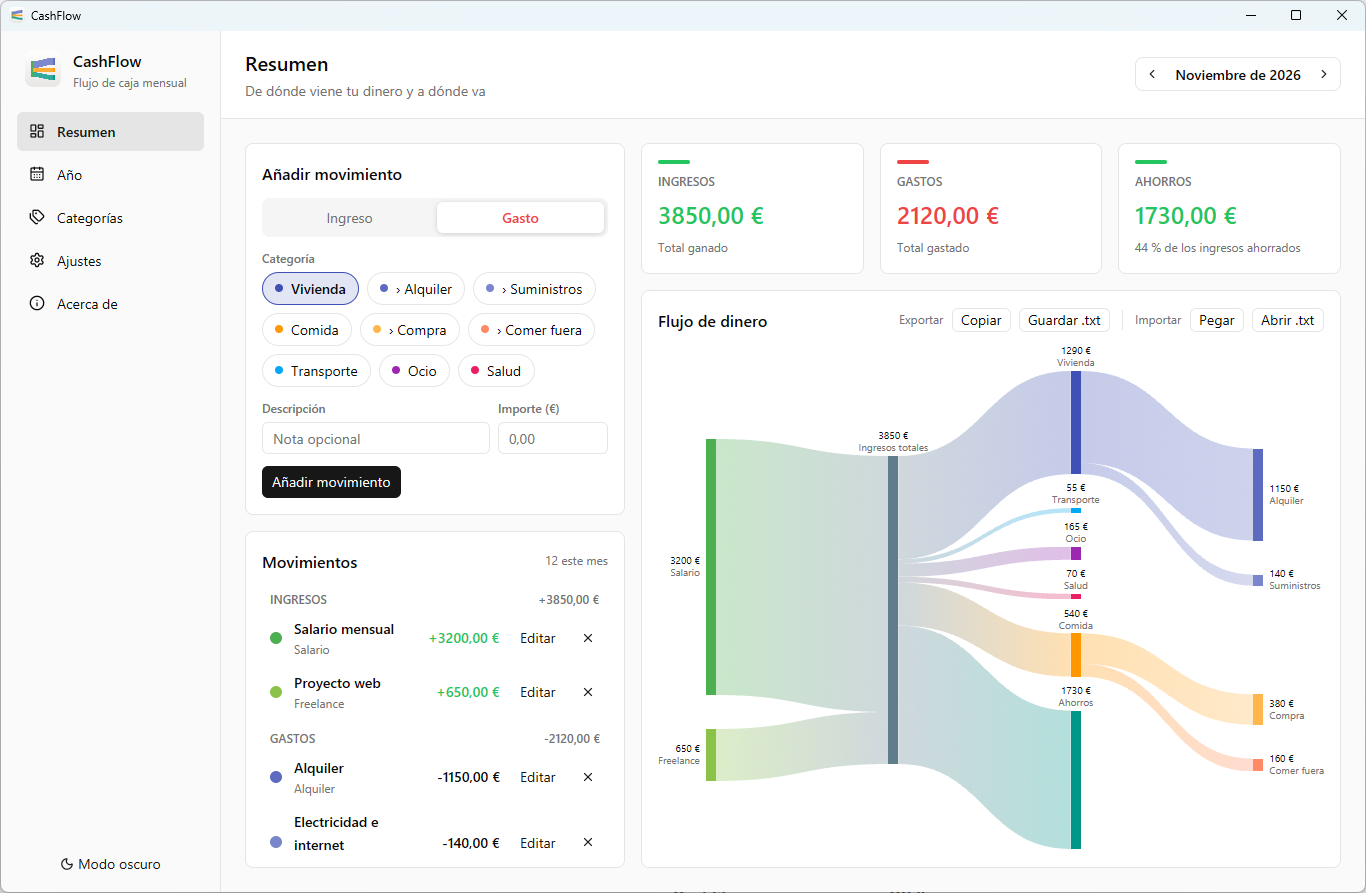
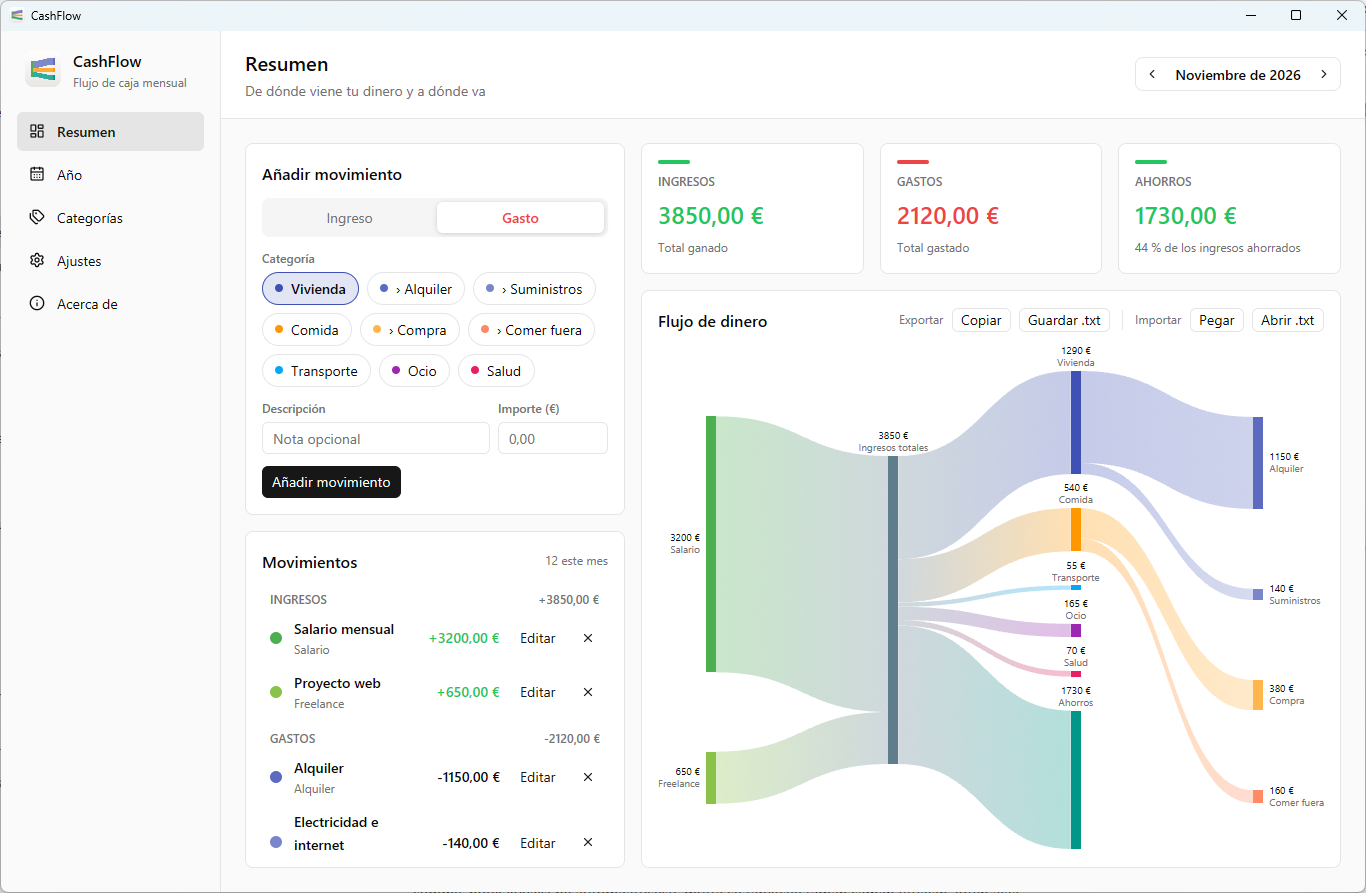
Move theme to settings, add color palettes, keep savings last, direct downloads
- Theme choice (automatic/light/dark) lives in Settings and is saved
- Category colour picker: vivid, dark and muted rows
- Sankey layout keeps node order so Savings is always the lowest node
- /download/* redirect straight to the release files
- CI no longer builds the website (Cloudflare does) and skips site/docs changes

diff --git a/src/app/view.rs b/src/app/view.rs
@@ -1,7 +1,6 @@
 //! Views: sidebar navigation, page header, cards and lists.
 
 use super::*;
-use gpui_kit::component::{Theme, ThemeMode};
 
 /// Theme colors copied out of the context so view code can freely borrow `cx`.
 #[derive(Clone, Copy)]
@@ -112,7 +111,7 @@ fn pill(
 impl CashFlowApp {
     // ---- shell ----
 
-    fn sidebar(&self, p: Pal, dark: bool, cx: &mut Context<Self>) -> impl IntoElement {
+    fn sidebar(&self, p: Pal, cx: &mut Context<Self>) -> impl IntoElement {
         let nav = |page: Page, icon: IconName, label: &'static str, cx: &mut Context<Self>| {
             let active = self.page == page;
             div()
@@ -174,17 +173,6 @@ impl CashFlowApp {
             .child(nav(Page::Settings, IconName::Settings, self.t(Msg::NavSettings), cx))
             .child(nav(Page::About, IconName::Info, self.t(Msg::NavAbout), cx))
             .child(div().flex_1())
-            .child(
-                Button::new("theme-toggle")
-                    .ghost()
-                    .small()
-                    .icon(if dark { IconName::Sun } else { IconName::Moon })
-                    .label(if dark { self.t(Msg::ThemeLight) } else { self.t(Msg::ThemeDark) })
-                    .on_click(cx.listener(move |_, _, window, cx| {
-                        let mode = if dark { ThemeMode::Light } else { ThemeMode::Dark };
-                        Theme::change(mode, Some(window), cx);
-                    })),
-            )
     }
 
     fn header(&self, p: Pal, cx: &mut Context<Self>) -> impl IntoElement {
@@ -660,6 +648,8 @@ impl CashFlowApp {
                         // Left alignment keeps all direct children of the middle node in one
                         // column, so flows never run underneath other nodes.
                         .node_align(SankeyAlign::Left)
+                        // No relaxation: nodes keep our order, so Savings is always last.
+                        .iterations(sankey::SANKEY_ITERATIONS)
                         // Room for the two-line label of small neighbouring nodes.
                         .node_padding(34.0)
                         .node_label(|n| n.label.clone().into())
@@ -1014,6 +1004,23 @@ impl CashFlowApp {
                 .on_click(cx.listener(move |this, _, window, cx| this.set_currency(currency, window, cx)))
             })
             .collect();
+        let themes: Vec<_> = [
+            (None, self.t(Msg::Automatic)),
+            (Some(ThemeChoice::Light), self.t(Msg::ThemeLight)),
+            (Some(ThemeChoice::Dark), self.t(Msg::ThemeDark)),
+        ]
+        .into_iter()
+        .map(|(theme, label)| {
+            pill(
+                SharedString::from(format!("theme-{theme:?}")),
+                label.to_string(),
+                None,
+                self.settings.theme == theme,
+                p,
+            )
+            .on_click(cx.listener(move |this, _, window, cx| this.set_theme(theme, window, cx)))
+        })
+        .collect();
         let hint = |text: &'static str| div().text_sm().text_color(p.muted_fg).child(text);
 
         h_flex().flex_1().min_h_0().items_start().p_6().child(
@@ -1029,6 +1036,13 @@ impl CashFlowApp {
                         .child(heading(self.t(Msg::CurrencyTitle)))
                         .child(hint(self.t(Msg::CurrencyHelp)))
                         .child(h_flex().flex_wrap().gap_2().children(currencies)),
+                )
+                .child(
+                    card(p)
+                        .gap_3()
+                        .child(heading(self.t(Msg::ThemeTitle)))
+                        .child(hint(self.t(Msg::ThemeHelp)))
+                        .child(h_flex().flex_wrap().gap_2().children(themes)),
                 )
                 .child(
                     card(p)
@@ -1092,9 +1106,8 @@ impl CashFlowApp {
             })
             .collect();
 
-        let swatches: Vec<_> = PALETTE
-            .iter()
-            .map(|&color| {
+        let swatch_row = |colors: &[u32], cx: &mut Context<Self>| {
+            h_flex().flex_wrap().gap_2().children(colors.iter().map(|&color| {
                 let selected = self.cat_color == color;
                 div()
                     .id(id_of("swatch", color as u64))
@@ -1108,15 +1121,20 @@ impl CashFlowApp {
                         this.cat_color = color;
                         cx.notify();
                     }))
-            })
-            .collect();
+            }))
+        };
+        let swatches = v_flex()
+            .gap_2()
+            .child(swatch_row(&PALETTE, cx))
+            .child(swatch_row(&PALETTE_DARK, cx))
+            .child(swatch_row(&PALETTE_MUTED, cx));
 
         card(p)
             .gap_3()
             .child(heading(if editing { self.t(Msg::EditCategory) } else { self.t(Msg::NewCategory) }))
             .child(self.segmented(self.cat_kind, true, p, cx))
             .child(field(self.t(Msg::Name), p).child(Input::new(&self.cat_name_in)))
-            .child(field(self.t(Msg::Color), p).child(h_flex().flex_wrap().gap_2().children(swatches)))
+            .child(field(self.t(Msg::Color), p).child(swatches))
             .child(field(self.t(Msg::Parent), p).child(h_flex().flex_wrap().gap_2().children(parents)))
             .child(
                 h_flex()
@@ -1202,7 +1220,6 @@ fn stat_card(label: &'static str, value: String, accent: Hsla, note: String, p: 
 impl Render for CashFlowApp {
     fn render(&mut self, _: &mut Window, cx: &mut Context<Self>) -> impl IntoElement {
         let p = pal(cx);
-        let dark = cx.theme().is_dark();
         let page = match self.page {
             Page::Overview => self.overview(p, cx).into_any_element(),
             Page::Year => self.year_page(p, cx).into_any_element(),
@@ -1223,7 +1240,7 @@ impl Render for CashFlowApp {
             .size_full()
             .bg(p.bg)
             .text_color(p.fg)
-            .child(self.sidebar(p, dark, cx))
+            .child(self.sidebar(p, cx))
             .child(main)
     }
 }

diff --git a/src/app.rs b/src/app.rs
@@ -16,13 +16,23 @@ use crate::i18n::{Currency, Lang, Locale, Msg, Plural, SystemLocale};
 use crate::import::{self, ImportPlan};
 use crate::model::{Categories, CategoryId, Entry, Kind, MonthKey, parse_amount_cents};
 use crate::sankey::{self, FlowNode, SankeyData};
-use crate::settings::{Labels, Settings};
+use crate::settings::{Labels, Settings, ThemeChoice};
 use crate::storage::{MonthData, Storage};
 use crate::year::{self, YearSummary};
 
+/// Category colours: vivid ones (used for new categories by default), plus a
+/// darker and a muted (softer) set of the same hues. The picker shows all three.
 const PALETTE: [u32; 10] = [
     0x3F51B5, 0xFF9800, 0x03A9F4, 0x9C27B0, 0xE91E63, 0x4CAF50, 0x795548, 0x00BCD4, 0xCDDC39,
     0xFF5722,
+];
+const PALETTE_DARK: [u32; 10] = [
+    0x1A237E, 0xE65100, 0x01579B, 0x4A148C, 0x880E4F, 0x1B5E20, 0x3E2723, 0x006064, 0x827717,
+    0xBF360C,
+];
+const PALETTE_MUTED: [u32; 10] = [
+    0x8E99C4, 0xD9A566, 0x7FB0CF, 0xA986B5, 0xC98BA0, 0x86AD88, 0x9C8578, 0x7FB5BB, 0xBBBD86,
+    0xCF9482,
 ];
 
 #[derive(Clone, Copy, PartialEq)]
@@ -98,6 +108,13 @@ fn input_with(
     let placeholder: SharedString = placeholder.into();
     let value = value.to_string();
     cx.new(|cx| InputState::new(window, cx).placeholder(placeholder).default_value(value))
+}
+
+fn theme_mode(choice: ThemeChoice) -> ThemeMode {
+    match choice {
+        ThemeChoice::Light => ThemeMode::Light,
+        ThemeChoice::Dark => ThemeMode::Dark,
+    }
 }
 
 fn id_of(prefix: &str, id: u64) -> SharedString {
@@ -200,6 +217,9 @@ impl CashFlowApp {
             _subs: subs,
         };
         app.refresh();
+        if let Some(choice) = app.settings.theme {
+            Theme::change(theme_mode(choice), Some(window), cx);
+        }
         if let Ok(theme) = std::env::var("CASHFLOW_THEME") {
             let mode = if theme == "dark" { ThemeMode::Dark } else { ThemeMode::Light };
             Theme::change(mode, Some(window), cx);
@@ -250,6 +270,17 @@ impl CashFlowApp {
         self.settings.language = language;
         self.persist_settings();
         self.apply_locale(window, cx);
+    }
+
+    /// Applies and stores the theme; `None` follows the system appearance.
+    fn set_theme(&mut self, theme: Option<ThemeChoice>, window: &mut Window, cx: &mut Context<Self>) {
+        self.settings.theme = theme;
+        self.persist_settings();
+        match theme {
+            Some(choice) => Theme::change(theme_mode(choice), Some(window), cx),
+            None => Theme::sync_system_appearance(Some(window), cx),
+        }
+        cx.notify();
     }
 
     fn set_currency(&mut self, currency: Option<Currency>, window: &mut Window, cx: &mut Context<Self>) {

diff --git a/src/sankey.rs b/src/sankey.rs
@@ -11,6 +11,11 @@ use std::collections::{HashMap, HashSet};
 use crate::model::{Categories, Category, CategoryId, Entry, Kind};
 use crate::settings::Labels;
 
+/// Layout relaxation passes of the chart. Zero keeps the node order we build
+/// (income, expenses in category order, savings last) instead of letting the
+/// layout reshuffle nodes.
+pub const SANKEY_ITERATIONS: usize = 0;
+
 pub const SAVINGS_COLOR: u32 = 0x009688;
 pub const DEFICIT_COLOR: u32 = 0xE53935;
 pub const TOTAL_COLOR: u32 = 0x607D8B;
@@ -409,5 +414,40 @@ mod tests {
         assert_eq!(e[0].category_id, housing);
         assert_eq!(c.get(groceries).unwrap().parent, None);
         assert!(c.get(food).is_none());
+    }
+
+    /// The chart layout must keep the node order, so Savings stays at the bottom
+    /// (the default relaxation reorders nodes and can lift it above a category).
+    #[test]
+    fn savings_is_the_lowest_node_of_its_column() {
+        use crate::storage::Storage;
+        use gpui_kit::component::plot::shape::{Sankey, SankeyAlign, SankeyLink};
+
+        let st = Storage::new(concat!(env!("CARGO_MANIFEST_DIR"), "/docs/demo-data"));
+        let cats = st.load_categories().value;
+        let mut all = Vec::new();
+        let mut sets: Vec<(String, Vec<Entry>)> = Vec::new();
+        for key in st.list_months() {
+            let e = st.load_month(key).value.entries;
+            all.extend(e.clone());
+            sets.push((key.to_string(), e));
+        }
+        sets.push(("year".into(), all));
+        for (name, entries) in sets {
+            let d = build(&cats, &entries);
+            let Some(sav) = d.nodes.iter().position(|n| n.label == "Savings") else { continue };
+            let links: Vec<SankeyLink> =
+                d.links.iter().map(|l| SankeyLink::new(l.source, l.target, l.value)).collect();
+            let g = Sankey::new()
+                .iterations(SANKEY_ITERATIONS)
+                .node_align(SankeyAlign::Left)
+                .node_padding(34.0)
+                .extent(0.0, 0.0, 1000.0, 600.0)
+                .layout(d.nodes.len(), &links)
+                .unwrap();
+            let layer = g.nodes[sav].layer;
+            let lowest = g.nodes.iter().filter(|n| n.layer == layer).all(|n| n.y0 <= g.nodes[sav].y0);
+            assert!(lowest, "{name}: savings is not the lowest node");
+        }
     }
 }

diff --git a/src/settings.rs b/src/settings.rs
@@ -63,6 +63,14 @@ impl Labels {
     }
 }
 
+/// An explicit colour theme; no choice means "follow the system".
+#[derive(Clone, Copy, Debug, PartialEq, Serialize, Deserialize)]
+#[serde(rename_all = "lowercase")]
+pub enum ThemeChoice {
+    Light,
+    Dark,
+}
+
 #[derive(Clone, Debug, Default, PartialEq, Serialize, Deserialize)]
 #[serde(default)]
 pub struct Settings {
@@ -71,6 +79,8 @@ pub struct Settings {
     pub language: Option<Lang>,
     /// `None` follows the system region.
     pub currency: Option<Currency>,
+    /// `None` follows the system appearance.
+    pub theme: Option<ThemeChoice>,
 }
 
 #[cfg(test)]
@@ -111,7 +121,9 @@ mod tests {
         assert_eq!(serde_json::from_str::<Settings>(&json).unwrap(), s);
         // Old files without the new fields mean "automatic".
         let old: Settings = serde_json::from_str(r#"{"labels":{"total":"X"}}"#).unwrap();
-        assert_eq!((old.language, old.currency), (None, None));
+        assert_eq!((old.language, old.currency, old.theme), (None, None, None));
+        let dark: Settings = serde_json::from_str(r#"{"theme":"dark"}"#).unwrap();
+        assert_eq!(dark.theme, Some(ThemeChoice::Dark));
     }
 
     #[test]

diff --git a/src/i18n.rs b/src/i18n.rs
@@ -419,6 +419,14 @@ messages! {
     ThemeDark {
         en: "Dark mode", fi: "Tumma tila", sv: "Mörkt läge", de: "Dunkler Modus", fr: "Mode sombre", es: "Modo oscuro",
     }
+    ThemeTitle {
+        en: "Appearance", fi: "Ulkoasu", sv: "Utseende", de: "Darstellung", fr: "Apparence", es: "Apariencia",
+    }
+    ThemeHelp {
+        en: "Follow the system setting or pick a theme.", fi: "Seuraa järjestelmän asetusta tai valitse teema.",
+        sv: "Följ systeminställningen eller välj ett tema.", de: "Der Systemeinstellung folgen oder ein Design wählen.",
+        fr: "Suivre le réglage du système ou choisir un thème.", es: "Seguir el ajuste del sistema o elegir un tema.",
+    }
     SubOverview {
         en: "Where your money comes from and where it goes", fi: "Mistä rahasi tulevat ja minne ne menevät",
         sv: "Var dina pengar kommer ifrån och vart de går", de: "Woher dein Geld kommt und wohin es geht",
